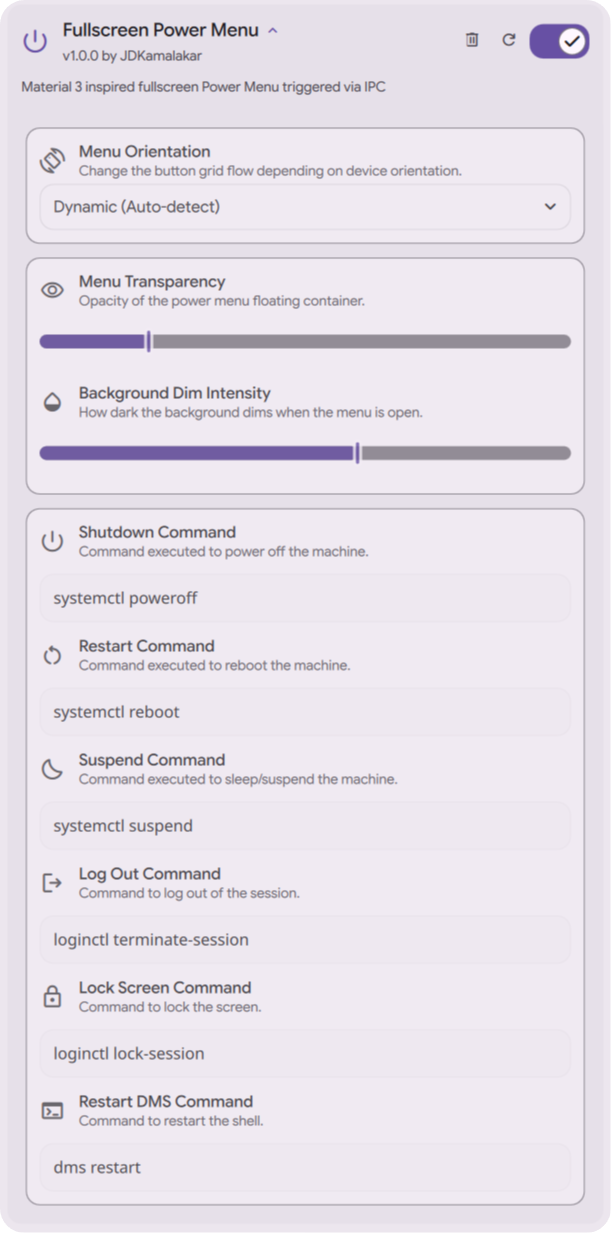
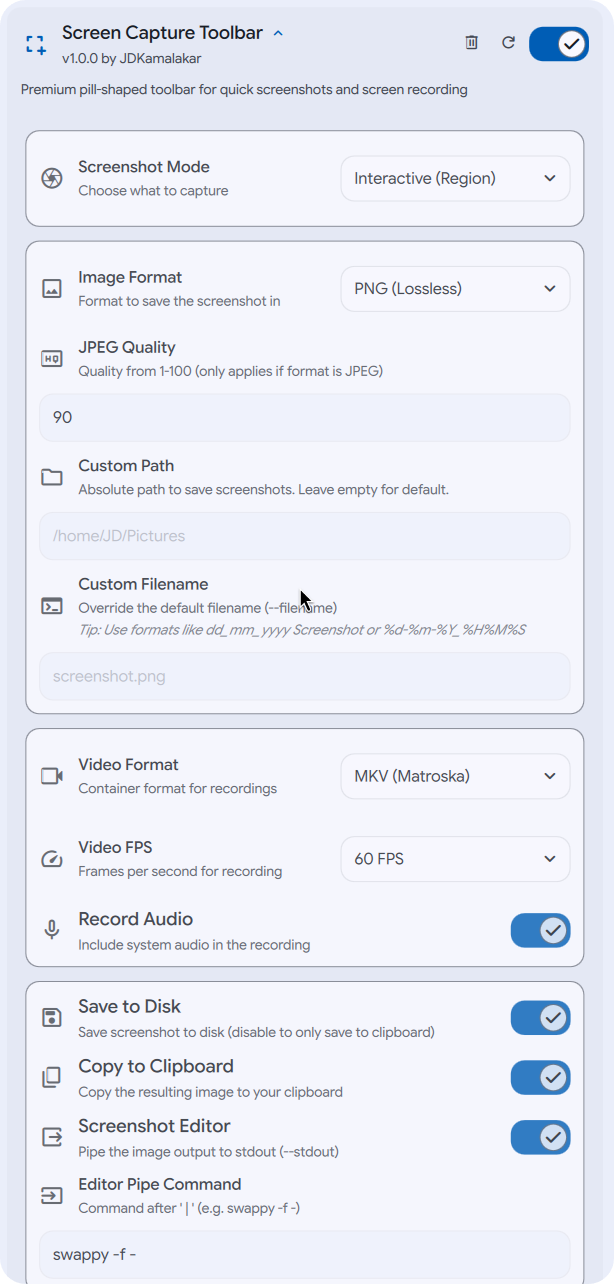
docs: update README documentation and refresh UI assets with new feature screenshots

diff --git a/README.md b/README.md
@@ -13,11 +13,27 @@ A high-end, glassmorphic floating pill toolbar for the Dank Material Shell. Seam
 [![License](https://img.shields.io/badge/License-DMS-blue.svg?labelColor=27303D&color=0877d2)](https://github.com/DankMaterialShell)
 [![Maintenance Status](https://img.shields.io/badge/Status-Maintained-green.svg?labelColor=27303D&color=946300)](https://github.com/JDKamalakar/DMS-ScreenCapture_Toolbar/graphs/commit-activity)
 
-![Screen Capture Toolbar Mockup](/home/JD/.gemini/antigravity/brain/556fd6c8-aedc-4ef9-a295-745fac4e0d23/screen_capture_toolbar_mockup_1778260683671.png)
-
 </div>
 
-## ✨ Features
+## Interface
+
+<div align="center">
+    <img src="assets/Screen_Recording_UI.png" width="49%" alt="Screen Recording UI"/>
+    <img src="assets/Screenshot_UI.png" width="49%" alt="Screenshot UI"/>
+</div>
+<br>
+<div align="center">
+    <img src="assets/Recording_Pill_UI.png" width="30%" alt="Recording Pill Collapsed"/>
+    <img src="assets/Recording_Pill_E_UI.png.png" width="60%" alt="Recording Pill Expanded"/>
+</div>
+
+## Configuration
+
+<div align="center">
+    <img src="assets/Settings.png" width="40%" alt="Settings"/>
+</div>
+
+## Features
 
 - **Premium Glassmorphism**: Translucent, theme-aware "Floating Pill" design that respects system light and dark modes.
 - **Dynamic Segmented Corners**: Intuitive "DankButtonGroup" style buttons that morph between segmented parts and full pills.
@@ -32,7 +48,7 @@ A high-end, glassmorphic floating pill toolbar for the Dank Material Shell. Seam
     - **All Monitors**: Grab the entire workspace in one go.
 - **Power Workflow**: Trigger captures with `Spacebar` and exit instantly with `Escape`.
 
-## 🚀 Installation
+## Installation
 
 ### Using DMS Plugin Gallery
 1. Open the **DMS Dashboard**.
@@ -49,14 +65,14 @@ git clone https://github.com/JDKamalakar/DMS-ScreenCapture_Toolbar.git
 mv DMS-ScreenCapture_Toolbar ~/.config/quickshell/plugins/
 ```
 
-## 🛠 Configuration
+## Configuration
 
 Access the integrated settings directly from the toolbar or via the DMS Settings panel to customize:
 - **Default Formats**: PNG, JPG, PPM for photos; MP4, MKV, FLV for video.
 - **Recording FPS**: 60, 30, or 24 FPS options.
 - **Visibility**: Toggle the **Recording Pill**, system notifications, and mouse pointer visibility.
 
-## 🤝 Contributing
+## Contributing
 
 Contributions are welcome! Feel free to open an issue or submit a pull request if you have ideas for new animations or features.
 
@@ -64,4 +80,22 @@ Contributions are welcome! Feel free to open an issue or submit a pull request i
 
 <div align="center">
     Made with ❤ for the <b>Dank Material Shell</b> community.
+</div>
+
+### Credits
+
+Built with ❤ for the [Dank Material Shell](https://github.com/DankMaterialShell) community.
+
+<a href="https://github.com/JDKamalakar/DMS-ScreenCapture_Toolbar/graphs/contributors">
+    <img src="https://contrib.rocks/image?repo=JDKamalakar/DMS-ScreenCapture_Toolbar" alt="Screen Capture Toolbar contributors" title="Screen Capture Toolbar contributors" width="100"/>
+</a>
+
+### Disclaimer
+
+This application is an independent utility for Dank Material Shell.
+
+### 📜 License
+
+Part of DankMaterialShell. Check the main repository for license information.
+
 </div>
